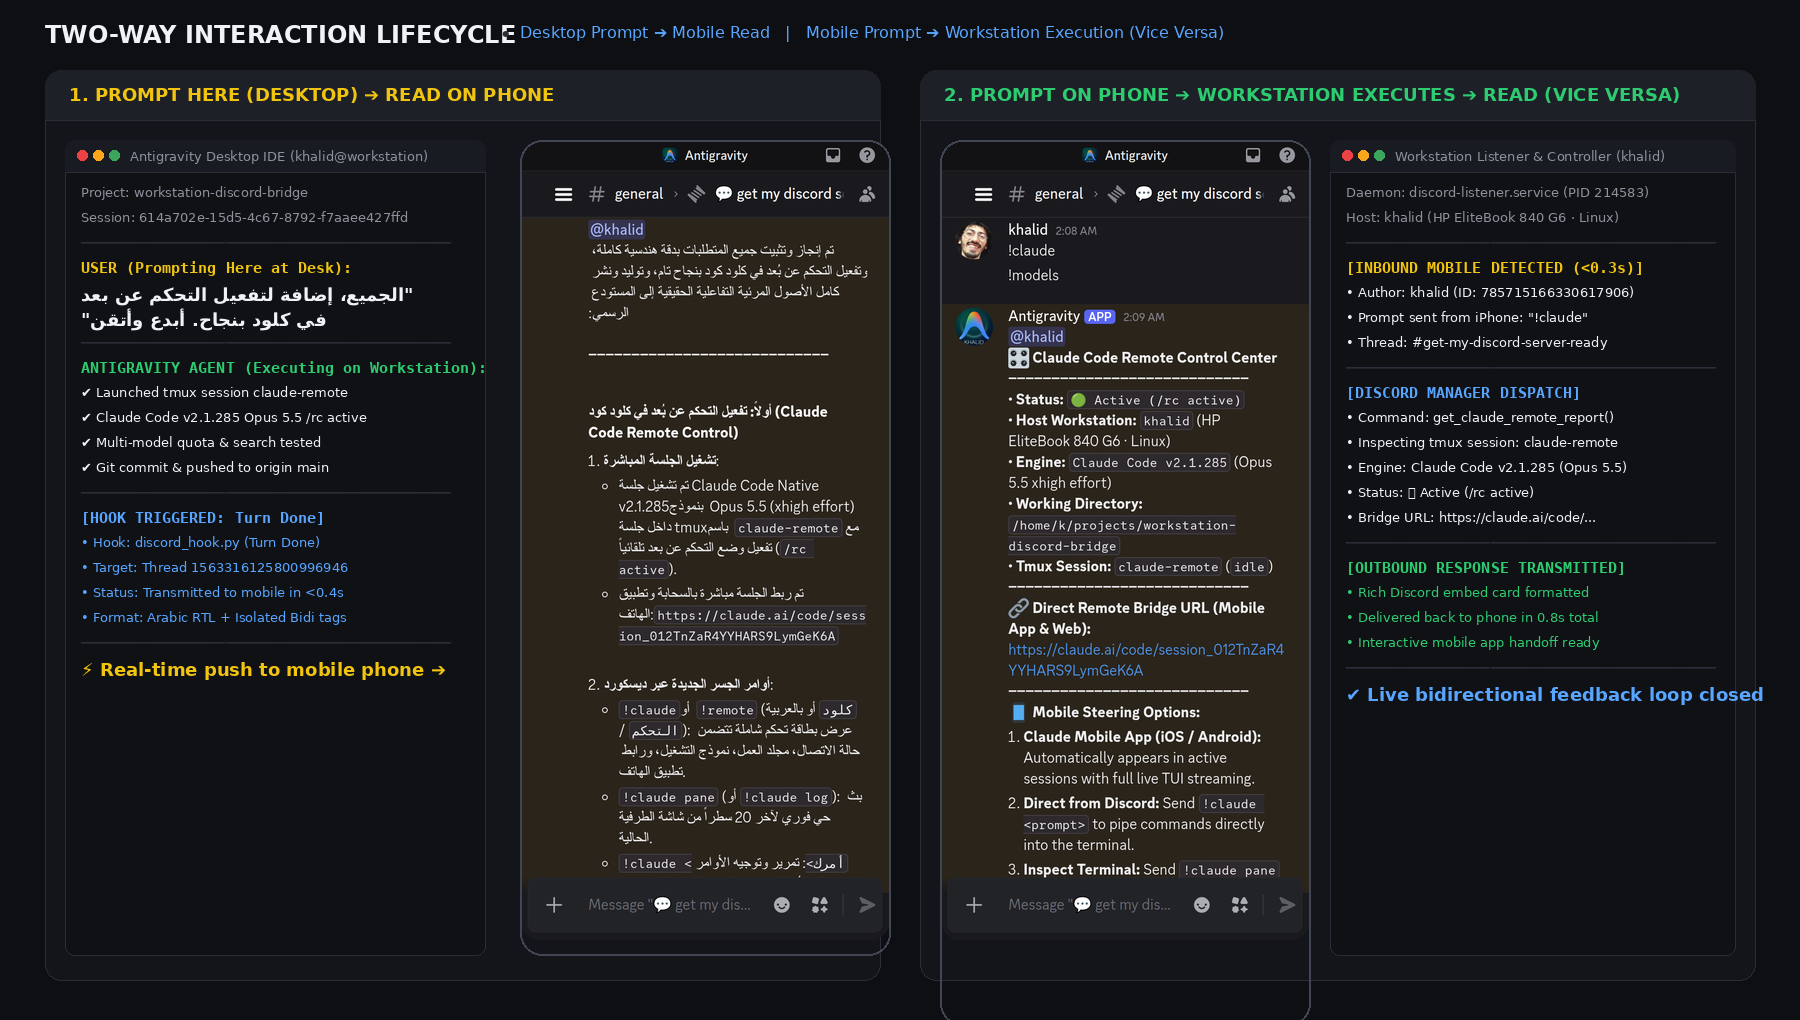
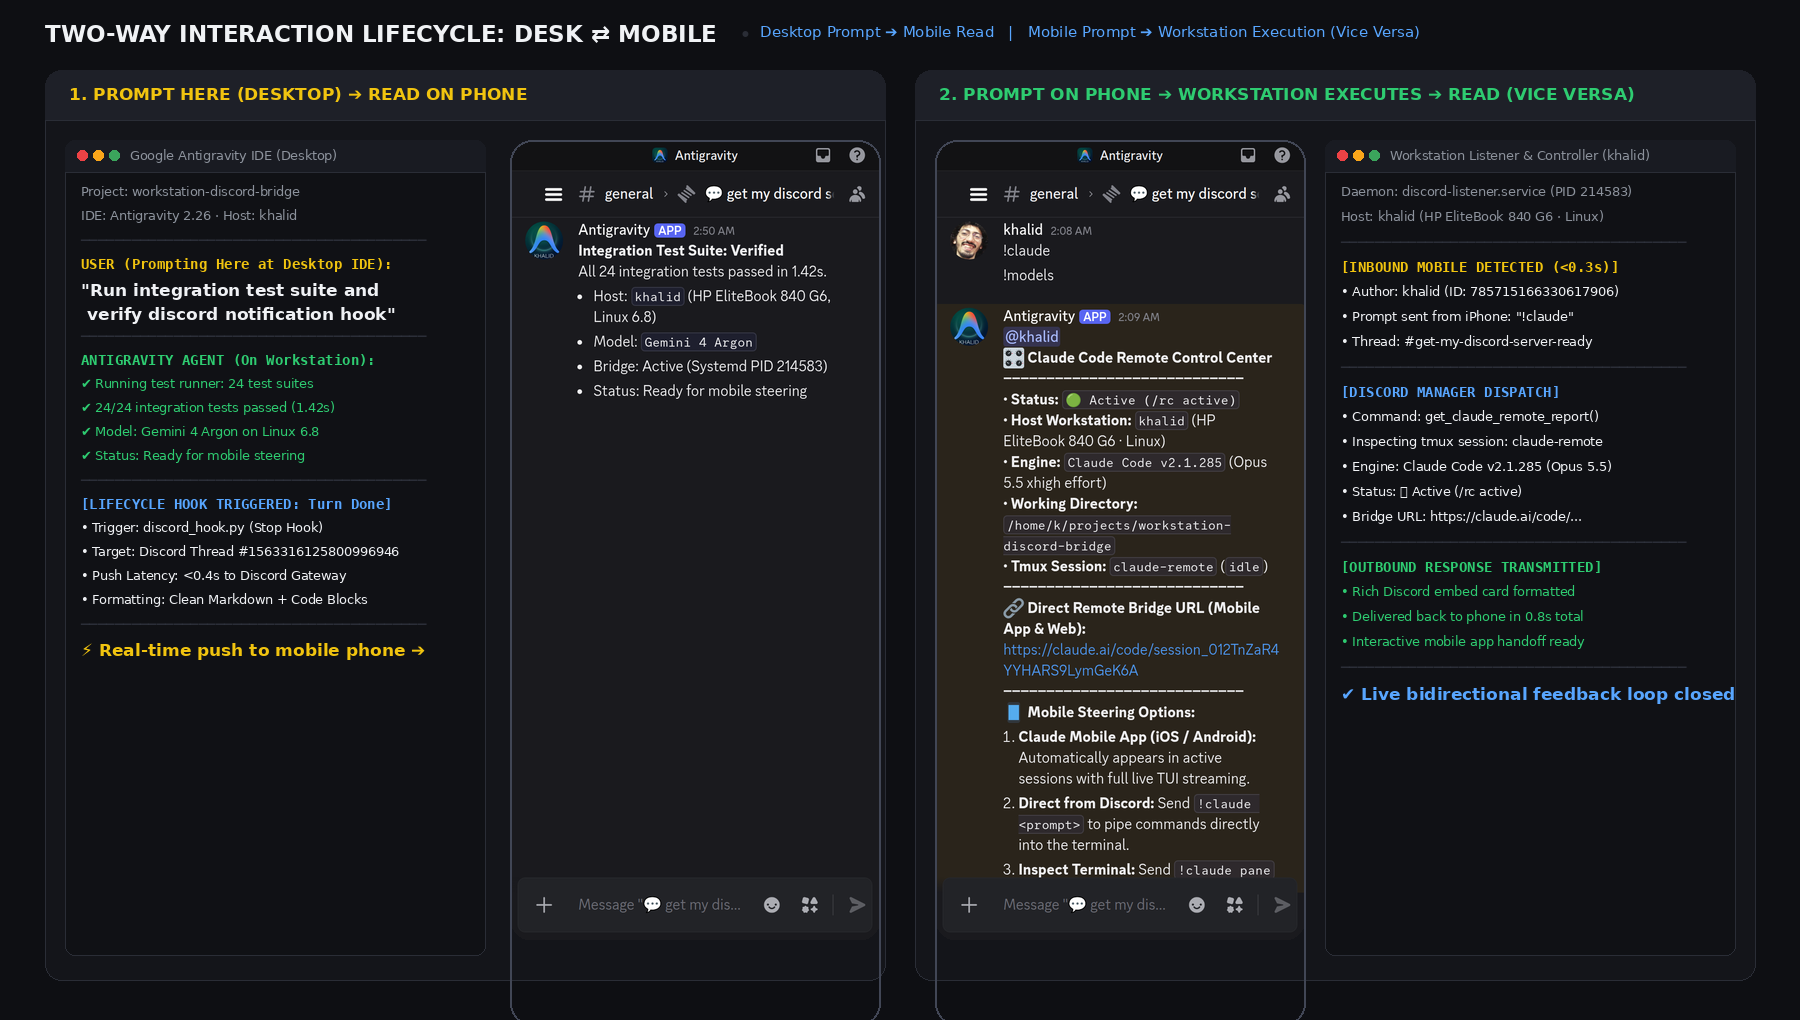
docs: showcase Antigravity IDE and Discord mobile together with clean English text

Changed region(s): [[0.0311, 0.0, 0.9956, 0.9725], [0.0311, 0.152, 0.2489, 0.6686]]

diff --git a/README.md b/README.md
@@ -38,7 +38,21 @@ Whether commuting, away from the desk, or monitoring overnight builds, you can *
 
 ## 🔄 Two-Way Interaction Lifecycle: Desk ⇄ Mobile
 
-The bridge operates symmetrically in both directions, seamlessly uniting desktop IDE workflows with mobile-on-the-go supervision:
+The bridge operates symmetrically in both directions, seamlessly uniting Google Antigravity Desktop IDE workflows with Discord mobile-on-the-go supervision:
+
+### 1. Direction 1: Desk ➔ Mobile ("Prompt in Antigravity IDE, Read on Phone")
+Work initiated at the desktop IDE (such as triggering agent cascades, running test suites, or refactoring code) executes locally on your workstation. Upon turn completion, the Antigravity lifecycle hook (`discord_hook.py`) automatically formats and pushes the complete response to the active Discord thread on your smartphone in under 1.5 seconds.
+
+<div align="center">
+
+<img src="docs/screenshots/desktop_prompt_mobile_read.png" width="950" alt="Antigravity IDE to Discord Mobile Read">
+
+*Direction 1: Google Antigravity IDE (left) executes desktop prompt and dispatches test verification live to Discord Mobile (right) via lifecycle hook*
+
+</div>
+
+### 2. Direction 2: Mobile ➔ Workstation ➔ Mobile ("Prompt on Phone, Execute on Host, Read on Phone")
+When away from your workstation, send commands or prompts directly into Discord (`!claude <prompt>`, `!models`, `!search`, `!sh <cmd>`, or direct agent steering prompts). The background poller (`discord_listener.py`) captures the prompt with sub-second latency, dispatches execution to the host workstation runtime (Claude Code Native, Antigravity, or system shell), and pushes the full execution telemetry directly back into your mobile Discord thread.
 
 <div align="center">
 
@@ -47,11 +61,6 @@ The bridge operates symmetrically in both directions, seamlessly uniting desktop
 *Complete bidirectional lifecycle: (Left) Prompting in Desktop Antigravity IDE pushes the verified answer to Discord Mobile via hooks. (Right) Prompting from Discord Mobile executes on workstation runtimes and streams the result directly back to your phone.*
 
 </div>
-
-- **Direction 1: Desk ➔ Mobile ("Prompt Here, Read on Phone")**:
-  Work initiated at the desktop IDE (such as triggering long-running agent cascades, refactoring codebase modules, or running test suites) executes locally on your workstation. Upon turn completion, the Antigravity lifecycle hook (`discord_hook.py`) automatically formats, Bidi-isolates, and pushes the complete response to the active Discord thread on your smartphone. You can step away from your desk at any time without losing context.
-- **Direction 2: Mobile ➔ Desk ➔ Mobile ("Prompt on Phone, Execute on Workstation, Read on Phone")**:
-  When away from your workstation, send commands or prompts directly into Discord (`!claude <prompt>`, `!models`, `!search`, `!sh <cmd>`, or direct agent steering prompts). The background poller (`discord_listener.py`) captures the prompt with sub-second latency, dispatches execution to the host workstation runtime (Claude Code Native, Antigravity, or system shell), and pushes the full execution telemetry directly back into your mobile Discord thread.
 
 ---
 
@@ -183,7 +192,7 @@ All screenshots below are captured directly from the authentic Discord mobile we
 
 | 📲 Desktop Prompt ➔ Mobile Read | 📱 Autonomous Agent Steering Turn |
 |:---:|:---:|
-| <img src="docs/screenshots/desktop_prompt_mobile_read.png" width="370" alt="Desktop Prompt Pushed to Mobile"> <br> *Desktop IDE prompt executed on workstation and read live on Discord Mobile with Arabic RTL & Bidi* | <img src="docs/screenshots/mobile_agent_steering.png" width="370" alt="Autonomous Agent Steering Turn"> <br> *Multi-turn autonomous coding execution with turn status pills and review cards* |
+| <img src="docs/screenshots/desktop_prompt_mobile_read.png" width="370" alt="Desktop Prompt Pushed to Mobile"> <br> *Google Antigravity IDE prompt executed on host and read live on Discord Mobile via hook* | <img src="docs/screenshots/mobile_agent_steering.png" width="370" alt="Autonomous Agent Steering Turn"> <br> *Multi-turn autonomous coding execution with turn status pills and review cards* |
 
 <br>
 
